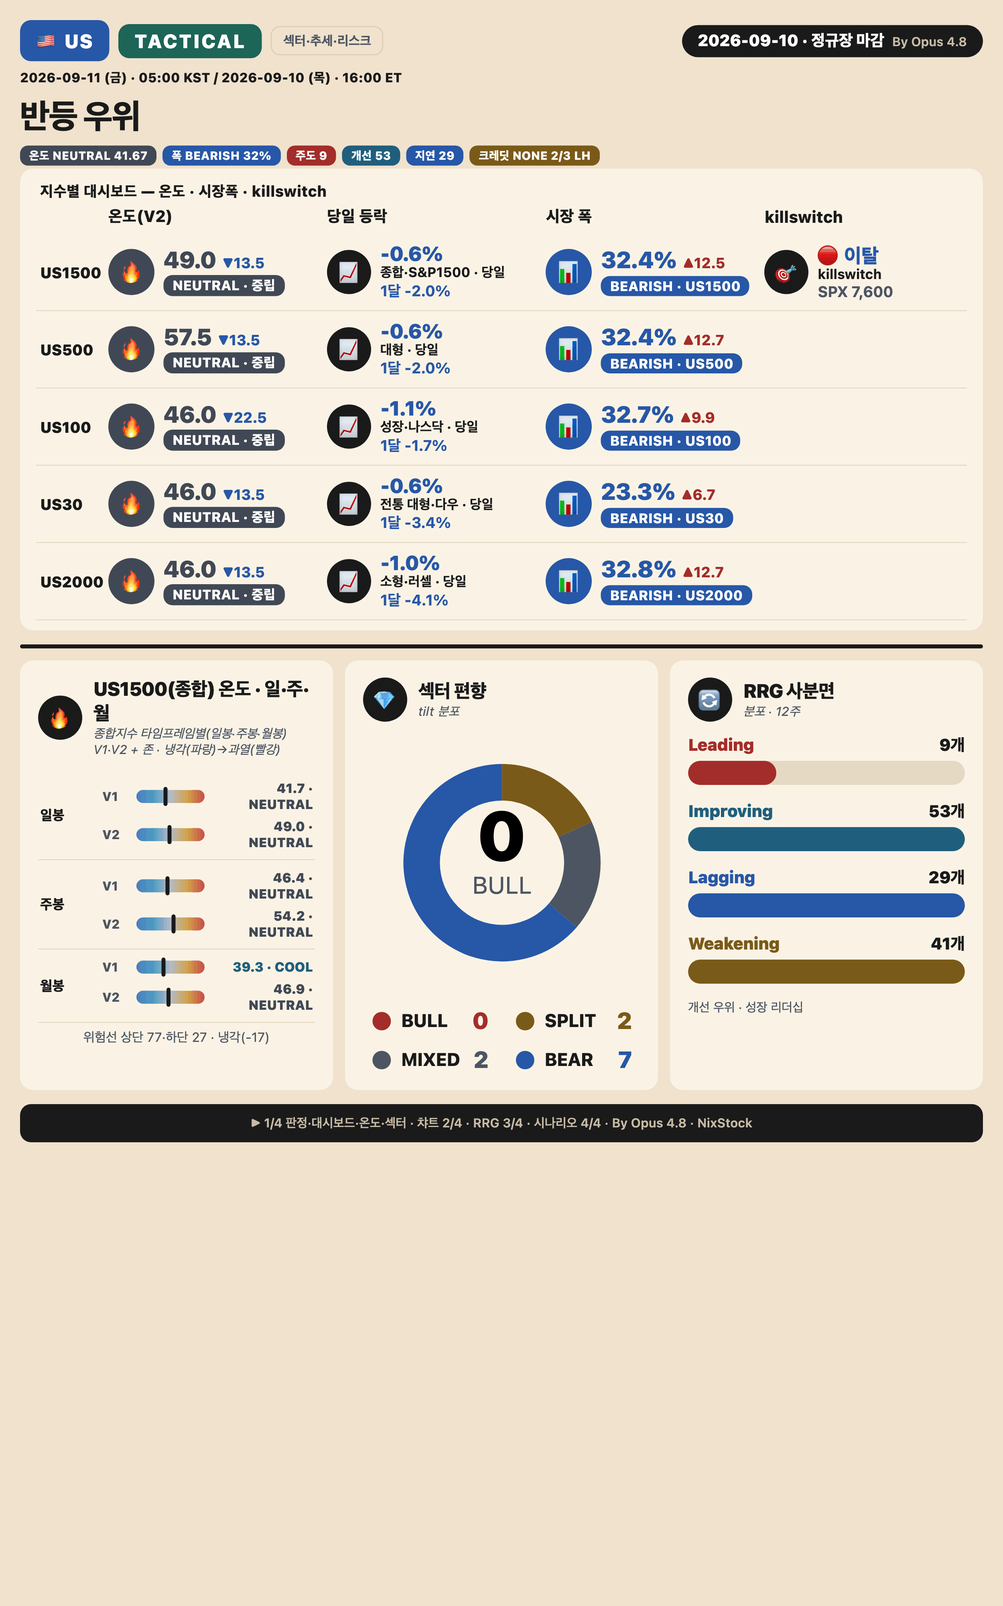
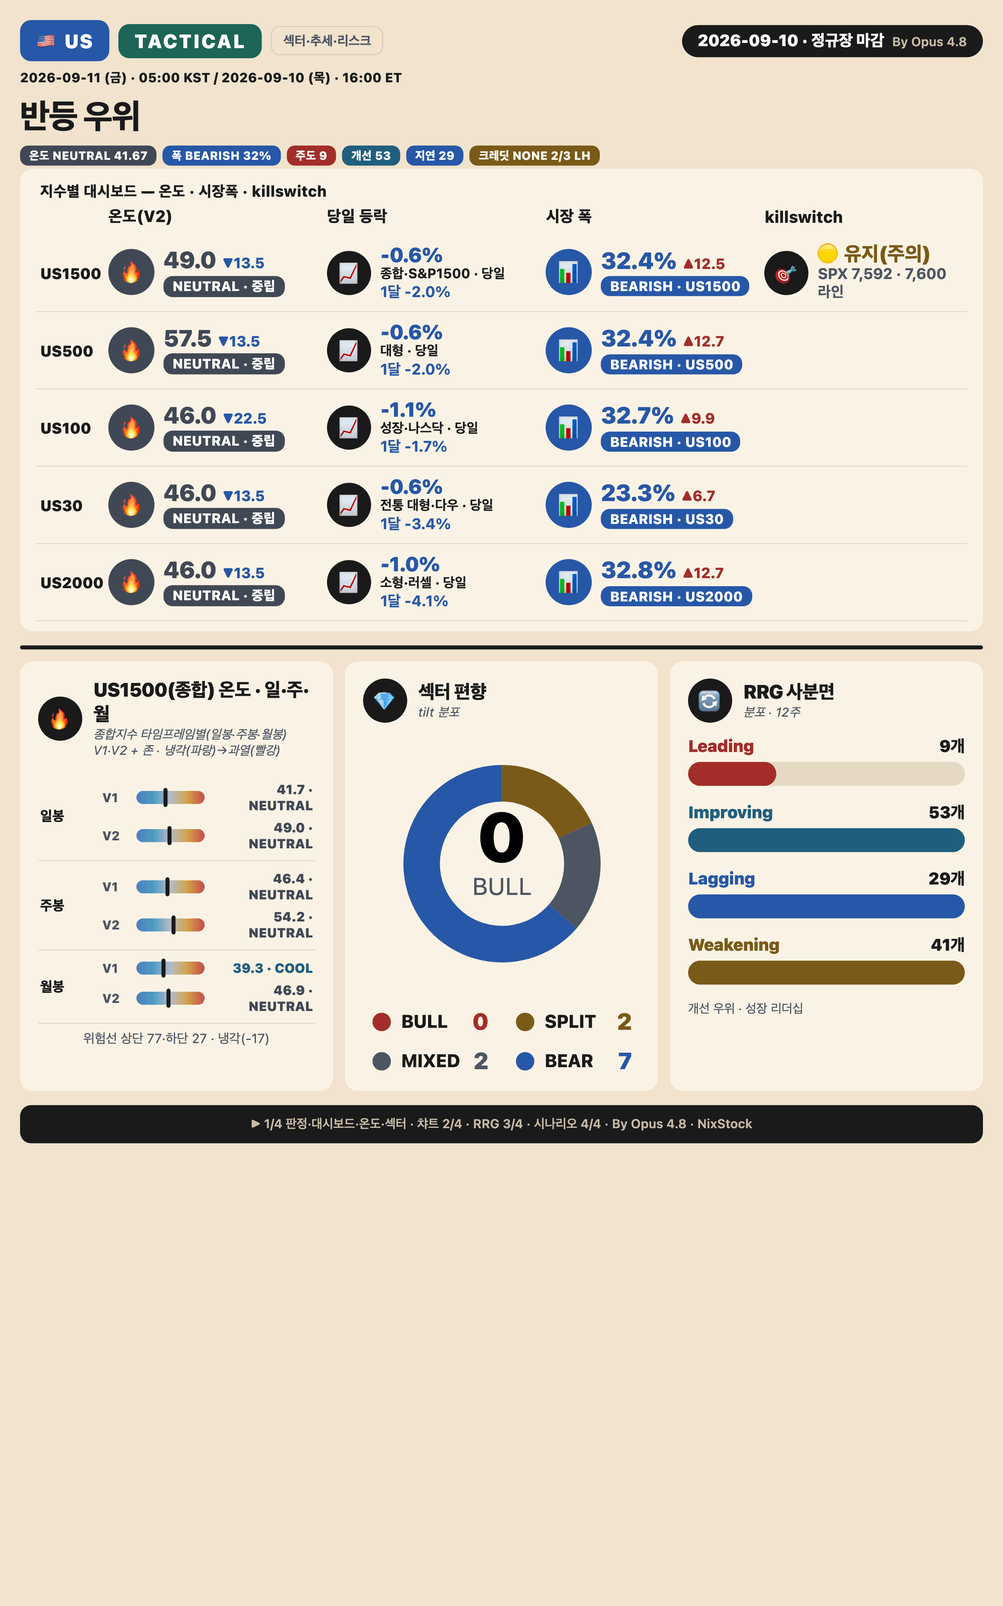
deploy: 2026-09-11 /Users/jichoi/Downloads/to_claude_web/tactical/2026-09-10_us_tactical_close

diff --git a/tactical/2026-09-10_us_tactical_close/infographic/us_tactical_infographic_2026-09-10_p1.html b/tactical/2026-09-10_us_tactical_close/infographic/us_tactical_infographic_2026-09-10_p1.html
@@ -12,7 +12,7 @@
 
 <div class="card" style="padding:6px 16px 10px">
 <div style="font-size:15px;color:#1A1A1A;font-weight:800;letter-spacing:.3px;padding:7px 4px 3px">지수별 대시보드 — 온도 · 시장폭 · killswitch</div>
-<div style="overflow-x:auto"><div style="min-width:760px"><div style="display:grid;grid-template-columns:58px 1fr 1fr 1fr 0.95fr;gap:10px;align-items:center;padding:2px 4px 7px;font-size:16px;color:#1A1A1A;font-weight:800;letter-spacing:.2px"><div></div><div>온도(V2)</div><div>당일 등락</div><div>시장 폭</div><div>killswitch</div></div><div style="display:grid;grid-template-columns:58px 1fr 1fr 1fr 0.95fr;gap:10px;align-items:center;padding:9px 4px;border-bottom:1px solid #E6DAC4"><div style="font-weight:900;color:#1A1A1A;font-size:15px">US1500</div><div style="display:flex;align-items:center;gap:9px;flex:1;min-width:150px"><div style="width:46px;height:46px;border-radius:50%;background:#414855;display:flex;align-items:center;justify-content:center;font-size:22px;flex:0 0 auto">&#128293;</div><div><div style="font-size:23px;font-weight:900;color:#414855;line-height:1.02">49.0<span style="font-size:14.5px;font-weight:800;color:#2757A8;margin-left:6px;white-space:nowrap">▼13.5</span></div><div style="font-size:13.5px;font-weight:700;margin-top:1px"></div><span style="display:inline-block;background:#414855;color:#fff;font-size:13.5px;font-weight:800;padding:2px 9px;border-radius:9px;margin-top:3px;letter-spacing:.2px">NEUTRAL · 중립</span></div></div><div style="display:flex;align-items:center;gap:9px;flex:1;min-width:150px"><div style="width:44px;height:44px;border-radius:50%;background:#1A1A1A;display:flex;align-items:center;justify-content:center;font-size:21px;flex:0 0 auto">&#128200;</div><div><div style="font-size:20px;font-weight:900;color:#2757A8;line-height:1.05">-0.6%</div><div style="font-size:13.5px;font-weight:700">종합·S&P1500 · 당일</div><div style="font-size:15px;color:#4E5563;font-weight:700"><span style="color:#2757A8">1달 -2.0%</span></div></div></div><div style="display:flex;align-items:center;gap:9px;flex:1;min-width:150px"><div style="width:46px;height:46px;border-radius:50%;background:#2757A8;display:flex;align-items:center;justify-content:center;font-size:22px;flex:0 0 auto">&#128202;</div><div><div style="font-size:23px;font-weight:900;color:#2757A8;line-height:1.02">32.4%<span style="font-size:14.5px;font-weight:800;color:#A32E2B;margin-left:6px;white-space:nowrap">▲12.5</span></div><div style="font-size:13.5px;font-weight:700;margin-top:1px"></div><span style="display:inline-block;background:#2757A8;color:#fff;font-size:13.5px;font-weight:800;padding:2px 9px;border-radius:9px;margin-top:3px;letter-spacing:.2px">BEARISH · US1500</span></div></div><div style="display:flex;align-items:center;gap:9px;flex:1;min-width:150px"><div style="width:44px;height:44px;border-radius:50%;background:#1A1A1A;display:flex;align-items:center;justify-content:center;font-size:21px;flex:0 0 auto">&#127919;</div><div><div style="font-size:20px;font-weight:900;color:#2757A8;line-height:1.05">🔴 이탈</div><div style="font-size:13.5px;font-weight:700">killswitch</div><div style="font-size:15px;color:#4E5563;font-weight:700">SPX 7,600</div></div></div></div><div style="display:grid;grid-template-columns:58px 1fr 1fr 1fr 0.95fr;gap:10px;align-items:center;padding:9px 4px;border-bottom:1px solid #E6DAC4"><div style="font-weight:900;color:#1A1A1A;font-size:15px">US500</div><div style="display:flex;align-items:center;gap:9px;flex:1;min-width:150px"><div style="width:46px;height:46px;border-radius:50%;background:#414855;display:flex;align-items:center;justify-content:center;font-size:22px;flex:0 0 auto">&#128293;</div><div><div style="font-size:23px;font-weight:900;color:#414855;line-height:1.02">57.5<span style="font-size:14.5px;font-weight:800;color:#2757A8;margin-left:6px;white-space:nowrap">▼13.5</span></div><div style="font-size:13.5px;font-weight:700;margin-top:1px"></div><span style="display:inline-block;background:#414855;color:#fff;font-size:13.5px;font-weight:800;padding:2px 9px;border-radius:9px;margin-top:3px;letter-spacing:.2px">NEUTRAL · 중립</span></div></div><div style="display:flex;align-items:center;gap:9px;flex:1;min-width:150px"><div style="width:44px;height:44px;border-radius:50%;background:#1A1A1A;display:flex;align-items:center;justify-content:center;font-size:21px;flex:0 0 auto">&#128200;</div><div><div style="font-size:20px;font-weight:900;color:#2757A8;line-height:1.05">-0.6%</div><div style="font-size:13.5px;font-weight:700">대형 · 당일</div><div style="font-size:15px;color:#4E5563;font-weight:700"><span style="color:#2757A8">1달 -2.0%</span></div></div></div><div style="display:flex;align-items:center;gap:9px;flex:1;min-width:150px"><div style="width:46px;height:46px;border-radius:50%;background:#2757A8;display:flex;align-items:center;justify-content:center;font-size:22px;flex:0 0 auto">&#128202;</div><div><div style="font-size:23px;font-weight:900;color:#2757A8;line-height:1.02">32.4%<span style="font-size:14.5px;font-weight:800;color:#A32E2B;margin-left:6px;white-space:nowrap">▲12.7</span></div><div style="font-size:13.5px;font-weight:700;margin-top:1px"></div><span style="display:inline-block;background:#2757A8;color:#fff;font-size:13.5px;font-weight:800;padding:2px 9px;border-radius:9px;margin-top:3px;letter-spacing:.2px">BEARISH · US500</span></div></div><div></div></div><div style="display:grid;grid-template-columns:58px 1fr 1fr 1fr 0.95fr;gap:10px;align-items:center;padding:9px 4px;border-bottom:1px solid #E6DAC4"><div style="font-weight:900;color:#1A1A1A;font-size:15px">US100</div><div style="display:flex;align-items:center;gap:9px;flex:1;min-width:150px"><div style="width:46px;height:46px;border-radius:50%;background:#414855;display:flex;align-items:center;justify-content:center;font-size:22px;flex:0 0 auto">&#128293;</div><div><div style="font-size:23px;font-weight:900;color:#414855;line-height:1.02">46.0<span style="font-size:14.5px;font-weight:800;color:#2757A8;margin-left:6px;white-space:nowrap">▼22.5</span></div><div style="font-size:13.5px;font-weight:700;margin-top:1px"></div><span style="display:inline-block;background:#414855;color:#fff;font-size:13.5px;font-weight:800;padding:2px 9px;border-radius:9px;margin-top:3px;letter-spacing:.2px">NEUTRAL · 중립</span></div></div><div style="display:flex;align-items:center;gap:9px;flex:1;min-width:150px"><div style="width:44px;height:44px;border-radius:50%;background:#1A1A1A;display:flex;align-items:center;justify-content:center;font-size:21px;flex:0 0 auto">&#128200;</div><div><div style="font-size:20px;font-weight:900;color:#2757A8;line-height:1.05">-1.1%</div><div style="font-size:13.5px;font-weight:700">성장·나스닥 · 당일</div><div style="font-size:15px;color:#4E5563;font-weight:700"><span style="color:#2757A8">1달 -1.7%</span></div></div></div><div style="display:flex;align-items:center;gap:9px;flex:1;min-width:150px"><div style="width:46px;height:46px;border-radius:50%;background:#2757A8;display:flex;align-items:center;justify-content:center;font-size:22px;flex:0 0 auto">&#128202;</div><div><div style="font-size:23px;font-weight:900;color:#2757A8;line-height:1.02">32.7%<span style="font-size:14.5px;font-weight:800;color:#A32E2B;margin-left:6px;white-space:nowrap">▲9.9</span></div><div style="font-size:13.5px;font-weight:700;margin-top:1px"></div><span style="display:inline-block;background:#2757A8;color:#fff;font-size:13.5px;font-weight:800;padding:2px 9px;border-radius:9px;margin-top:3px;letter-spacing:.2px">BEARISH · US100</span></div></div><div></div></div><div style="display:grid;grid-template-columns:58px 1fr 1fr 1fr 0.95fr;gap:10px;align-items:center;padding:9px 4px;border-bottom:1px solid #E6DAC4"><div style="font-weight:900;color:#1A1A1A;font-size:15px">US30</div><div style="display:flex;align-items:center;gap:9px;flex:1;min-width:150px"><div style="width:46px;height:46px;border-radius:50%;background:#414855;display:flex;align-items:center;justify-content:center;font-size:22px;flex:0 0 auto">&#128293;</div><div><div style="font-size:23px;font-weight:900;color:#414855;line-height:1.02">46.0<span style="font-size:14.5px;font-weight:800;color:#2757A8;margin-left:6px;white-space:nowrap">▼13.5</span></div><div style="font-size:13.5px;font-weight:700;margin-top:1px"></div><span style="display:inline-block;background:#414855;color:#fff;font-size:13.5px;font-weight:800;padding:2px 9px;border-radius:9px;margin-top:3px;letter-spacing:.2px">NEUTRAL · 중립</span></div></div><div style="display:flex;align-items:center;gap:9px;flex:1;min-width:150px"><div style="width:44px;height:44px;border-radius:50%;background:#1A1A1A;display:flex;align-items:center;justify-content:center;font-size:21px;flex:0 0 auto">&#128200;</div><div><div style="font-size:20px;font-weight:900;color:#2757A8;line-height:1.05">-0.6%</div><div style="font-size:13.5px;font-weight:700">전통 대형·다우 · 당일</div><div style="font-size:15px;color:#4E5563;font-weight:700"><span style="color:#2757A8">1달 -3.4%</span></div></div></div><div style="display:flex;align-items:center;gap:9px;flex:1;min-width:150px"><div style="width:46px;height:46px;border-radius:50%;background:#2757A8;display:flex;align-items:center;justify-content:center;font-size:22px;flex:0 0 auto">&#128202;</div><div><div style="font-size:23px;font-weight:900;color:#2757A8;line-height:1.02">23.3%<span style="font-size:14.5px;font-weight:800;color:#A32E2B;margin-left:6px;white-space:nowrap">▲6.7</span></div><div style="font-size:13.5px;font-weight:700;margin-top:1px"></div><span style="display:inline-block;background:#2757A8;color:#fff;font-size:13.5px;font-weight:800;padding:2px 9px;border-radius:9px;margin-top:3px;letter-spacing:.2px">BEARISH · US30</span></div></div><div></div></div><div style="display:grid;grid-template-columns:58px 1fr 1fr 1fr 0.95fr;gap:10px;align-items:center;padding:9px 4px;border-bottom:1px solid #E6DAC4"><div style="font-weight:900;color:#1A1A1A;font-size:15px">US2000</div><div style="display:flex;align-items:center;gap:9px;flex:1;min-width:150px"><div style="width:46px;height:46px;border-radius:50%;background:#414855;display:flex;align-items:center;justify-content:center;font-size:22px;flex:0 0 auto">&#128293;</div><div><div style="font-size:23px;font-weight:900;color:#414855;line-height:1.02">46.0<span style="font-size:14.5px;font-weight:800;color:#2757A8;margin-left:6px;white-space:nowrap">▼13.5</span></div><div style="font-size:13.5px;font-weight:700;margin-top:1px"></div><span style="display:inline-block;background:#414855;color:#fff;font-size:13.5px;font-weight:800;padding:2px 9px;border-radius:9px;margin-top:3px;letter-spacing:.2px">NEUTRAL · 중립</span></div></div><div style="display:flex;align-items:center;gap:9px;flex:1;min-width:150px"><div style="width:44px;height:44px;border-radius:50%;background:#1A1A1A;display:flex;align-items:center;justify-content:center;font-size:21px;flex:0 0 auto">&#128200;</div><div><div style="font-size:20px;font-weight:900;color:#2757A8;line-height:1.05">-1.0%</div><div style="font-size:13.5px;font-weight:700">소형·러셀 · 당일</div><div style="font-size:15px;color:#4E5563;font-weight:700"><span style="color:#2757A8">1달 -4.1%</span></div></div></div><div style="display:flex;align-items:center;gap:9px;flex:1;min-width:150px"><div style="width:46px;height:46px;border-radius:50%;background:#2757A8;display:flex;align-items:center;justify-content:center;font-size:22px;flex:0 0 auto">&#128202;</div><div><div style="font-size:23px;font-weight:900;color:#2757A8;line-height:1.02">32.8%<span style="font-size:14.5px;font-weight:800;color:#A32E2B;margin-left:6px;white-space:nowrap">▲12.7</span></div><div style="font-size:13.5px;font-weight:700;margin-top:1px"></div><span style="display:inline-block;background:#2757A8;color:#fff;font-size:13.5px;font-weight:800;padding:2px 9px;border-radius:9px;margin-top:3px;letter-spacing:.2px">BEARISH · US2000</span></div></div><div></div></div></div></div><div style="border-bottom:none"></div>
+<div style="overflow-x:auto"><div style="min-width:760px"><div style="display:grid;grid-template-columns:58px 1fr 1fr 1fr 0.95fr;gap:10px;align-items:center;padding:2px 4px 7px;font-size:16px;color:#1A1A1A;font-weight:800;letter-spacing:.2px"><div></div><div>온도(V2)</div><div>당일 등락</div><div>시장 폭</div><div>killswitch</div></div><div style="display:grid;grid-template-columns:58px 1fr 1fr 1fr 0.95fr;gap:10px;align-items:center;padding:9px 4px;border-bottom:1px solid #E6DAC4"><div style="font-weight:900;color:#1A1A1A;font-size:15px">US1500</div><div style="display:flex;align-items:center;gap:9px;flex:1;min-width:150px"><div style="width:46px;height:46px;border-radius:50%;background:#414855;display:flex;align-items:center;justify-content:center;font-size:22px;flex:0 0 auto">&#128293;</div><div><div style="font-size:23px;font-weight:900;color:#414855;line-height:1.02">49.0<span style="font-size:14.5px;font-weight:800;color:#2757A8;margin-left:6px;white-space:nowrap">▼13.5</span></div><div style="font-size:13.5px;font-weight:700;margin-top:1px"></div><span style="display:inline-block;background:#414855;color:#fff;font-size:13.5px;font-weight:800;padding:2px 9px;border-radius:9px;margin-top:3px;letter-spacing:.2px">NEUTRAL · 중립</span></div></div><div style="display:flex;align-items:center;gap:9px;flex:1;min-width:150px"><div style="width:44px;height:44px;border-radius:50%;background:#1A1A1A;display:flex;align-items:center;justify-content:center;font-size:21px;flex:0 0 auto">&#128200;</div><div><div style="font-size:20px;font-weight:900;color:#2757A8;line-height:1.05">-0.6%</div><div style="font-size:13.5px;font-weight:700">종합·S&P1500 · 당일</div><div style="font-size:15px;color:#4E5563;font-weight:700"><span style="color:#2757A8">1달 -2.0%</span></div></div></div><div style="display:flex;align-items:center;gap:9px;flex:1;min-width:150px"><div style="width:46px;height:46px;border-radius:50%;background:#2757A8;display:flex;align-items:center;justify-content:center;font-size:22px;flex:0 0 auto">&#128202;</div><div><div style="font-size:23px;font-weight:900;color:#2757A8;line-height:1.02">32.4%<span style="font-size:14.5px;font-weight:800;color:#A32E2B;margin-left:6px;white-space:nowrap">▲12.5</span></div><div style="font-size:13.5px;font-weight:700;margin-top:1px"></div><span style="display:inline-block;background:#2757A8;color:#fff;font-size:13.5px;font-weight:800;padding:2px 9px;border-radius:9px;margin-top:3px;letter-spacing:.2px">BEARISH · US1500</span></div></div><div style="display:flex;align-items:center;gap:9px;flex:1;min-width:150px"><div style="width:44px;height:44px;border-radius:50%;background:#1A1A1A;display:flex;align-items:center;justify-content:center;font-size:21px;flex:0 0 auto">&#127919;</div><div><div style="font-size:20px;font-weight:900;color:#7A5A18;line-height:1.05">🟡 유지(주의)</div><div style="font-size:13.5px;font-weight:700"></div><div style="font-size:15px;color:#4E5563;font-weight:700">SPX 7,592 · 7,600 라인</div></div></div></div><div style="display:grid;grid-template-columns:58px 1fr 1fr 1fr 0.95fr;gap:10px;align-items:center;padding:9px 4px;border-bottom:1px solid #E6DAC4"><div style="font-weight:900;color:#1A1A1A;font-size:15px">US500</div><div style="display:flex;align-items:center;gap:9px;flex:1;min-width:150px"><div style="width:46px;height:46px;border-radius:50%;background:#414855;display:flex;align-items:center;justify-content:center;font-size:22px;flex:0 0 auto">&#128293;</div><div><div style="font-size:23px;font-weight:900;color:#414855;line-height:1.02">57.5<span style="font-size:14.5px;font-weight:800;color:#2757A8;margin-left:6px;white-space:nowrap">▼13.5</span></div><div style="font-size:13.5px;font-weight:700;margin-top:1px"></div><span style="display:inline-block;background:#414855;color:#fff;font-size:13.5px;font-weight:800;padding:2px 9px;border-radius:9px;margin-top:3px;letter-spacing:.2px">NEUTRAL · 중립</span></div></div><div style="display:flex;align-items:center;gap:9px;flex:1;min-width:150px"><div style="width:44px;height:44px;border-radius:50%;background:#1A1A1A;display:flex;align-items:center;justify-content:center;font-size:21px;flex:0 0 auto">&#128200;</div><div><div style="font-size:20px;font-weight:900;color:#2757A8;line-height:1.05">-0.6%</div><div style="font-size:13.5px;font-weight:700">대형 · 당일</div><div style="font-size:15px;color:#4E5563;font-weight:700"><span style="color:#2757A8">1달 -2.0%</span></div></div></div><div style="display:flex;align-items:center;gap:9px;flex:1;min-width:150px"><div style="width:46px;height:46px;border-radius:50%;background:#2757A8;display:flex;align-items:center;justify-content:center;font-size:22px;flex:0 0 auto">&#128202;</div><div><div style="font-size:23px;font-weight:900;color:#2757A8;line-height:1.02">32.4%<span style="font-size:14.5px;font-weight:800;color:#A32E2B;margin-left:6px;white-space:nowrap">▲12.7</span></div><div style="font-size:13.5px;font-weight:700;margin-top:1px"></div><span style="display:inline-block;background:#2757A8;color:#fff;font-size:13.5px;font-weight:800;padding:2px 9px;border-radius:9px;margin-top:3px;letter-spacing:.2px">BEARISH · US500</span></div></div><div></div></div><div style="display:grid;grid-template-columns:58px 1fr 1fr 1fr 0.95fr;gap:10px;align-items:center;padding:9px 4px;border-bottom:1px solid #E6DAC4"><div style="font-weight:900;color:#1A1A1A;font-size:15px">US100</div><div style="display:flex;align-items:center;gap:9px;flex:1;min-width:150px"><div style="width:46px;height:46px;border-radius:50%;background:#414855;display:flex;align-items:center;justify-content:center;font-size:22px;flex:0 0 auto">&#128293;</div><div><div style="font-size:23px;font-weight:900;color:#414855;line-height:1.02">46.0<span style="font-size:14.5px;font-weight:800;color:#2757A8;margin-left:6px;white-space:nowrap">▼22.5</span></div><div style="font-size:13.5px;font-weight:700;margin-top:1px"></div><span style="display:inline-block;background:#414855;color:#fff;font-size:13.5px;font-weight:800;padding:2px 9px;border-radius:9px;margin-top:3px;letter-spacing:.2px">NEUTRAL · 중립</span></div></div><div style="display:flex;align-items:center;gap:9px;flex:1;min-width:150px"><div style="width:44px;height:44px;border-radius:50%;background:#1A1A1A;display:flex;align-items:center;justify-content:center;font-size:21px;flex:0 0 auto">&#128200;</div><div><div style="font-size:20px;font-weight:900;color:#2757A8;line-height:1.05">-1.1%</div><div style="font-size:13.5px;font-weight:700">성장·나스닥 · 당일</div><div style="font-size:15px;color:#4E5563;font-weight:700"><span style="color:#2757A8">1달 -1.7%</span></div></div></div><div style="display:flex;align-items:center;gap:9px;flex:1;min-width:150px"><div style="width:46px;height:46px;border-radius:50%;background:#2757A8;display:flex;align-items:center;justify-content:center;font-size:22px;flex:0 0 auto">&#128202;</div><div><div style="font-size:23px;font-weight:900;color:#2757A8;line-height:1.02">32.7%<span style="font-size:14.5px;font-weight:800;color:#A32E2B;margin-left:6px;white-space:nowrap">▲9.9</span></div><div style="font-size:13.5px;font-weight:700;margin-top:1px"></div><span style="display:inline-block;background:#2757A8;color:#fff;font-size:13.5px;font-weight:800;padding:2px 9px;border-radius:9px;margin-top:3px;letter-spacing:.2px">BEARISH · US100</span></div></div><div></div></div><div style="display:grid;grid-template-columns:58px 1fr 1fr 1fr 0.95fr;gap:10px;align-items:center;padding:9px 4px;border-bottom:1px solid #E6DAC4"><div style="font-weight:900;color:#1A1A1A;font-size:15px">US30</div><div style="display:flex;align-items:center;gap:9px;flex:1;min-width:150px"><div style="width:46px;height:46px;border-radius:50%;background:#414855;display:flex;align-items:center;justify-content:center;font-size:22px;flex:0 0 auto">&#128293;</div><div><div style="font-size:23px;font-weight:900;color:#414855;line-height:1.02">46.0<span style="font-size:14.5px;font-weight:800;color:#2757A8;margin-left:6px;white-space:nowrap">▼13.5</span></div><div style="font-size:13.5px;font-weight:700;margin-top:1px"></div><span style="display:inline-block;background:#414855;color:#fff;font-size:13.5px;font-weight:800;padding:2px 9px;border-radius:9px;margin-top:3px;letter-spacing:.2px">NEUTRAL · 중립</span></div></div><div style="display:flex;align-items:center;gap:9px;flex:1;min-width:150px"><div style="width:44px;height:44px;border-radius:50%;background:#1A1A1A;display:flex;align-items:center;justify-content:center;font-size:21px;flex:0 0 auto">&#128200;</div><div><div style="font-size:20px;font-weight:900;color:#2757A8;line-height:1.05">-0.6%</div><div style="font-size:13.5px;font-weight:700">전통 대형·다우 · 당일</div><div style="font-size:15px;color:#4E5563;font-weight:700"><span style="color:#2757A8">1달 -3.4%</span></div></div></div><div style="display:flex;align-items:center;gap:9px;flex:1;min-width:150px"><div style="width:46px;height:46px;border-radius:50%;background:#2757A8;display:flex;align-items:center;justify-content:center;font-size:22px;flex:0 0 auto">&#128202;</div><div><div style="font-size:23px;font-weight:900;color:#2757A8;line-height:1.02">23.3%<span style="font-size:14.5px;font-weight:800;color:#A32E2B;margin-left:6px;white-space:nowrap">▲6.7</span></div><div style="font-size:13.5px;font-weight:700;margin-top:1px"></div><span style="display:inline-block;background:#2757A8;color:#fff;font-size:13.5px;font-weight:800;padding:2px 9px;border-radius:9px;margin-top:3px;letter-spacing:.2px">BEARISH · US30</span></div></div><div></div></div><div style="display:grid;grid-template-columns:58px 1fr 1fr 1fr 0.95fr;gap:10px;align-items:center;padding:9px 4px;border-bottom:1px solid #E6DAC4"><div style="font-weight:900;color:#1A1A1A;font-size:15px">US2000</div><div style="display:flex;align-items:center;gap:9px;flex:1;min-width:150px"><div style="width:46px;height:46px;border-radius:50%;background:#414855;display:flex;align-items:center;justify-content:center;font-size:22px;flex:0 0 auto">&#128293;</div><div><div style="font-size:23px;font-weight:900;color:#414855;line-height:1.02">46.0<span style="font-size:14.5px;font-weight:800;color:#2757A8;margin-left:6px;white-space:nowrap">▼13.5</span></div><div style="font-size:13.5px;font-weight:700;margin-top:1px"></div><span style="display:inline-block;background:#414855;color:#fff;font-size:13.5px;font-weight:800;padding:2px 9px;border-radius:9px;margin-top:3px;letter-spacing:.2px">NEUTRAL · 중립</span></div></div><div style="display:flex;align-items:center;gap:9px;flex:1;min-width:150px"><div style="width:44px;height:44px;border-radius:50%;background:#1A1A1A;display:flex;align-items:center;justify-content:center;font-size:21px;flex:0 0 auto">&#128200;</div><div><div style="font-size:20px;font-weight:900;color:#2757A8;line-height:1.05">-1.0%</div><div style="font-size:13.5px;font-weight:700">소형·러셀 · 당일</div><div style="font-size:15px;color:#4E5563;font-weight:700"><span style="color:#2757A8">1달 -4.1%</span></div></div></div><div style="display:flex;align-items:center;gap:9px;flex:1;min-width:150px"><div style="width:46px;height:46px;border-radius:50%;background:#2757A8;display:flex;align-items:center;justify-content:center;font-size:22px;flex:0 0 auto">&#128202;</div><div><div style="font-size:23px;font-weight:900;color:#2757A8;line-height:1.02">32.8%<span style="font-size:14.5px;font-weight:800;color:#A32E2B;margin-left:6px;white-space:nowrap">▲12.7</span></div><div style="font-size:13.5px;font-weight:700;margin-top:1px"></div><span style="display:inline-block;background:#2757A8;color:#fff;font-size:13.5px;font-weight:800;padding:2px 9px;border-radius:9px;margin-top:3px;letter-spacing:.2px">BEARISH · US2000</span></div></div><div></div></div></div></div><div style="border-bottom:none"></div>
 </div>
 
 <div class="dv"></div>
